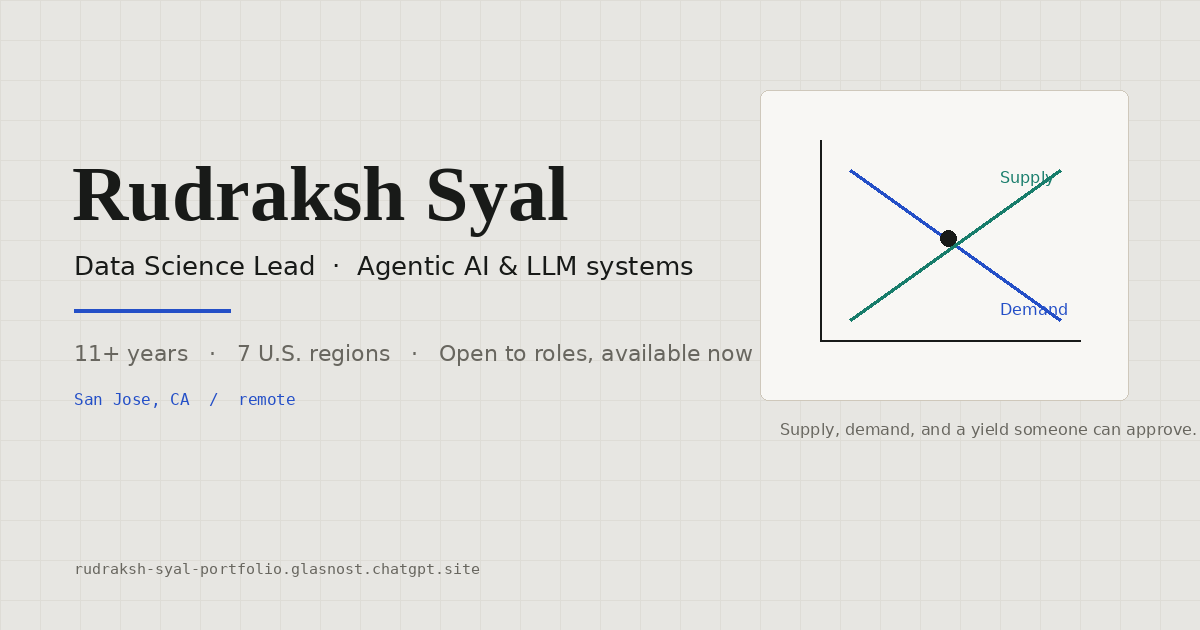
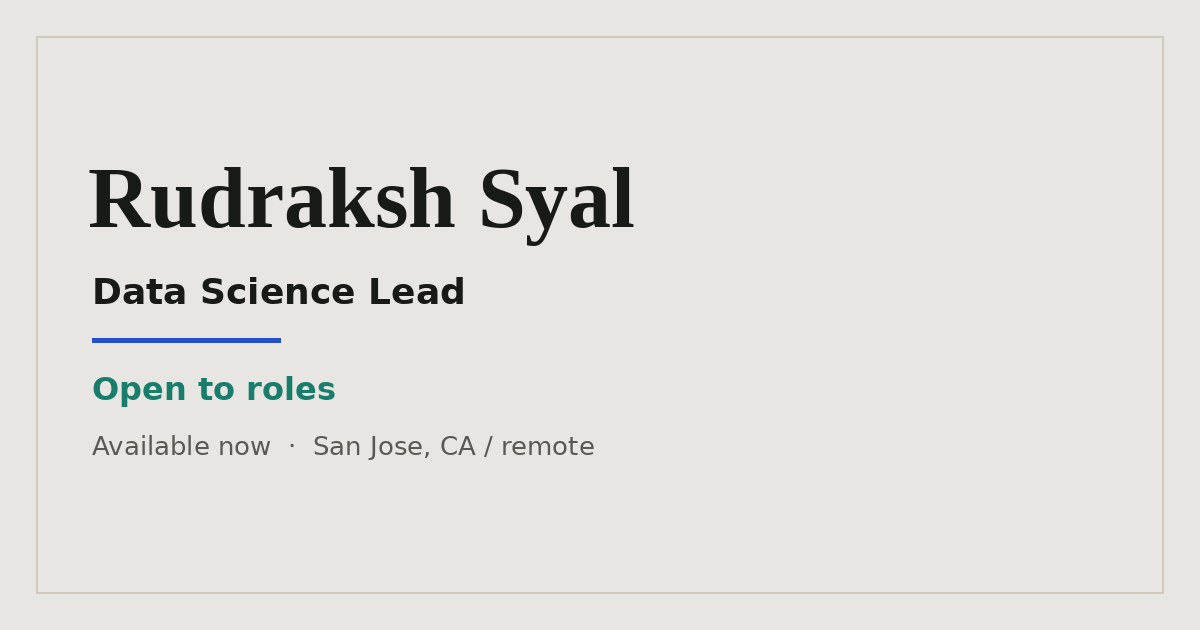
design: replace the social image with a lighter card
The old card mixed a chart into the preview. The shared image is now
name, Data Science Lead, and Open to roles, at 28 KB. It stays under
the 300 KB limit. Page-specific images are still not generated.

diff --git a/app/layout.tsx b/app/layout.tsx
@@ -45,7 +45,7 @@ export const metadata: Metadata = {
         url: socialImage,
         width: 1200,
         height: 630,
-        alt: "Rudraksh Syal, Data Science Lead. 11+ years, 7 U.S. regions, open to roles.",
+        alt: "Rudraksh Syal, Data Science Lead. Open to roles. Available now.",
       },
     ],
   },

diff --git a/CHANGELOG.md b/CHANGELOG.md
@@ -26,6 +26,7 @@ semantic versioning when a stable public milestone is tagged.
 - Building now lists every public repository pushed since 12 June 2026,
   including NeetCode submissions and opportunity scoring. Four are featured.
   The rest are a compact list with a README line, stack tags, and the last push date.
+- Shared Open Graph image is a 28 KB card: name, Data Science Lead, and “Open to roles.”
 - `/future` is the page for target roles and the README roadmap.
 - Shorter headlines and section intros on the homepage, journey, about, work library, and case-study openings.
 - Case-study navigation wraps on a phone instead of hiding every link but the last.
